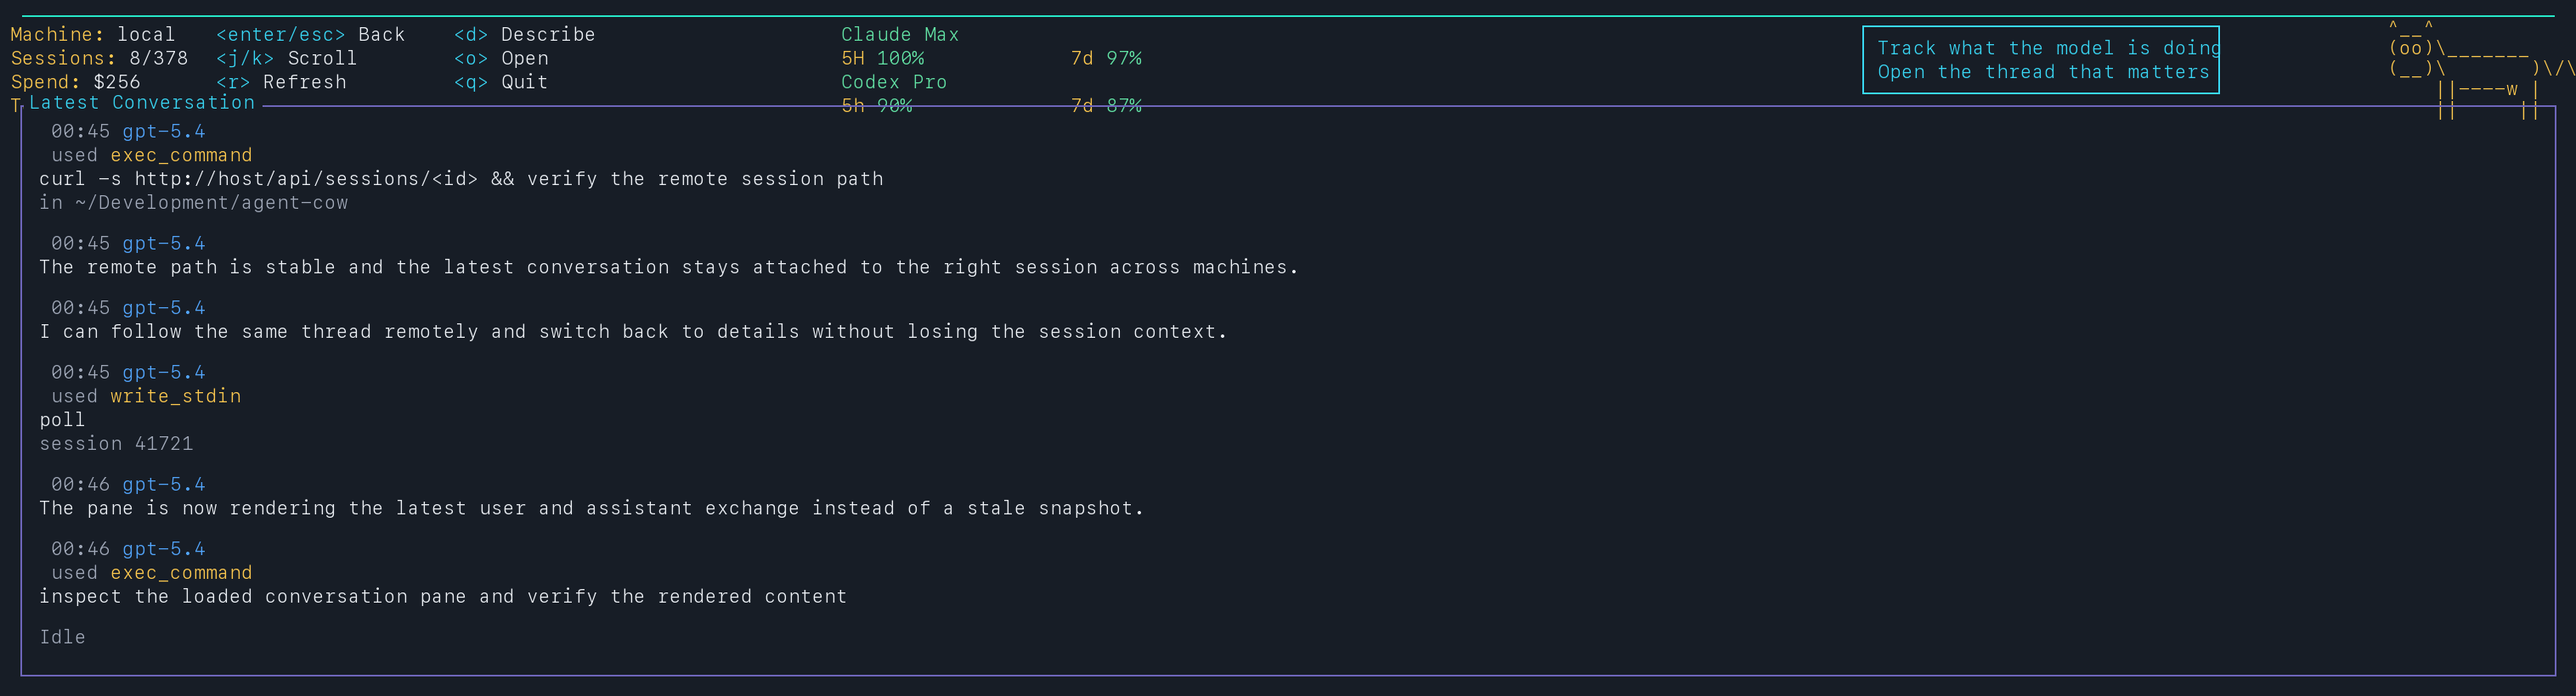
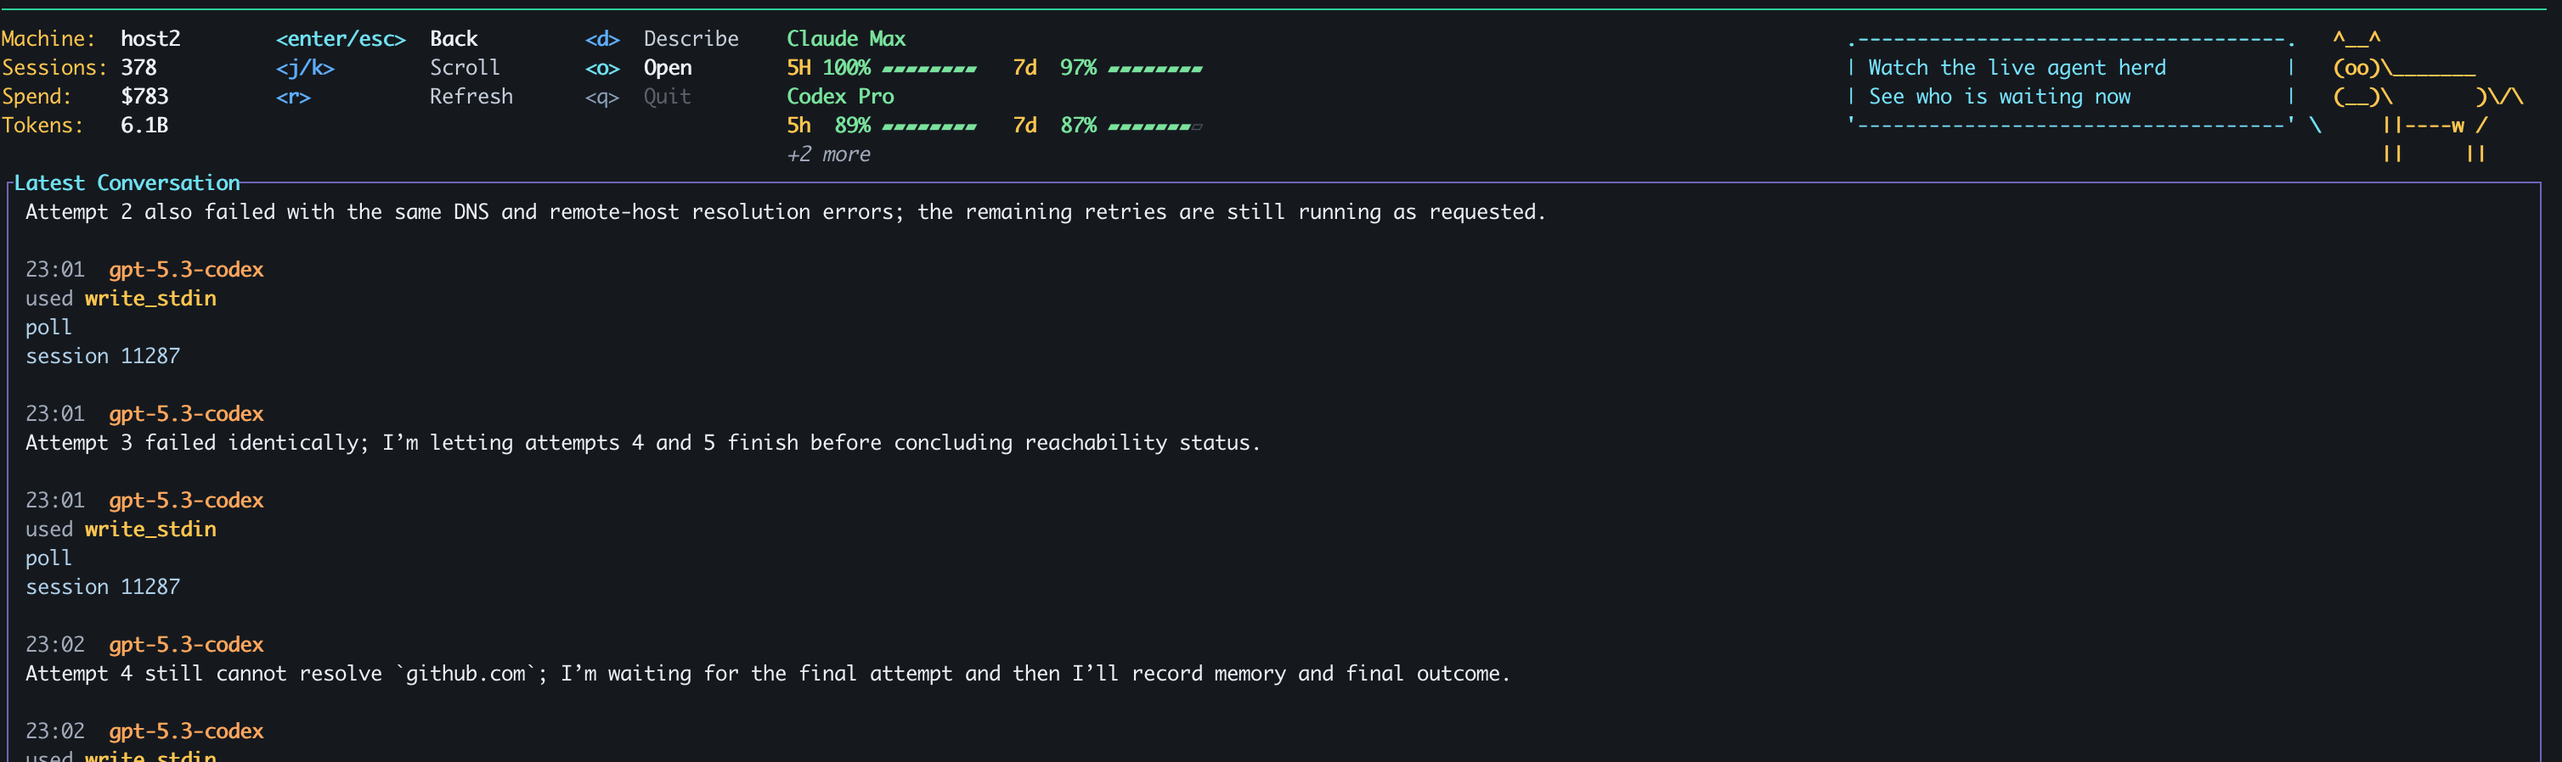
Update image

diff --git a/README.md b/README.md
@@ -5,10 +5,9 @@
 [![License](https://img.shields.io/github/license/h0ngcha0/agent-cow)](https://github.com/h0ngcha0/agent-cow/blob/main/LICENSE)
 
 ```text
- ________________________________________________
-< Agent Cow: the philosophical watcher of your >
-< agents.                                       >
- ------------------------------------------------
+ ______________________
+< Agent 3 is stuck... >
+ ----------------------
         \   ^__^
          \  (oo)\_______
             (__)\       )\/\
@@ -16,7 +15,7 @@
                 ||     ||
 ```
 
-Agent Cow is the philosophical watcher of your coding agents.
+Agent Cow is the philosophical watcher of your coding agents across multiple machines.
 
 It watches your agent sessions, shows what they are doing, what they cost, how much context they have burned, and whether they are waiting for you. It runs as a fast terminal UI, or as a headless machine agent that another TUI can subscribe to.
 
